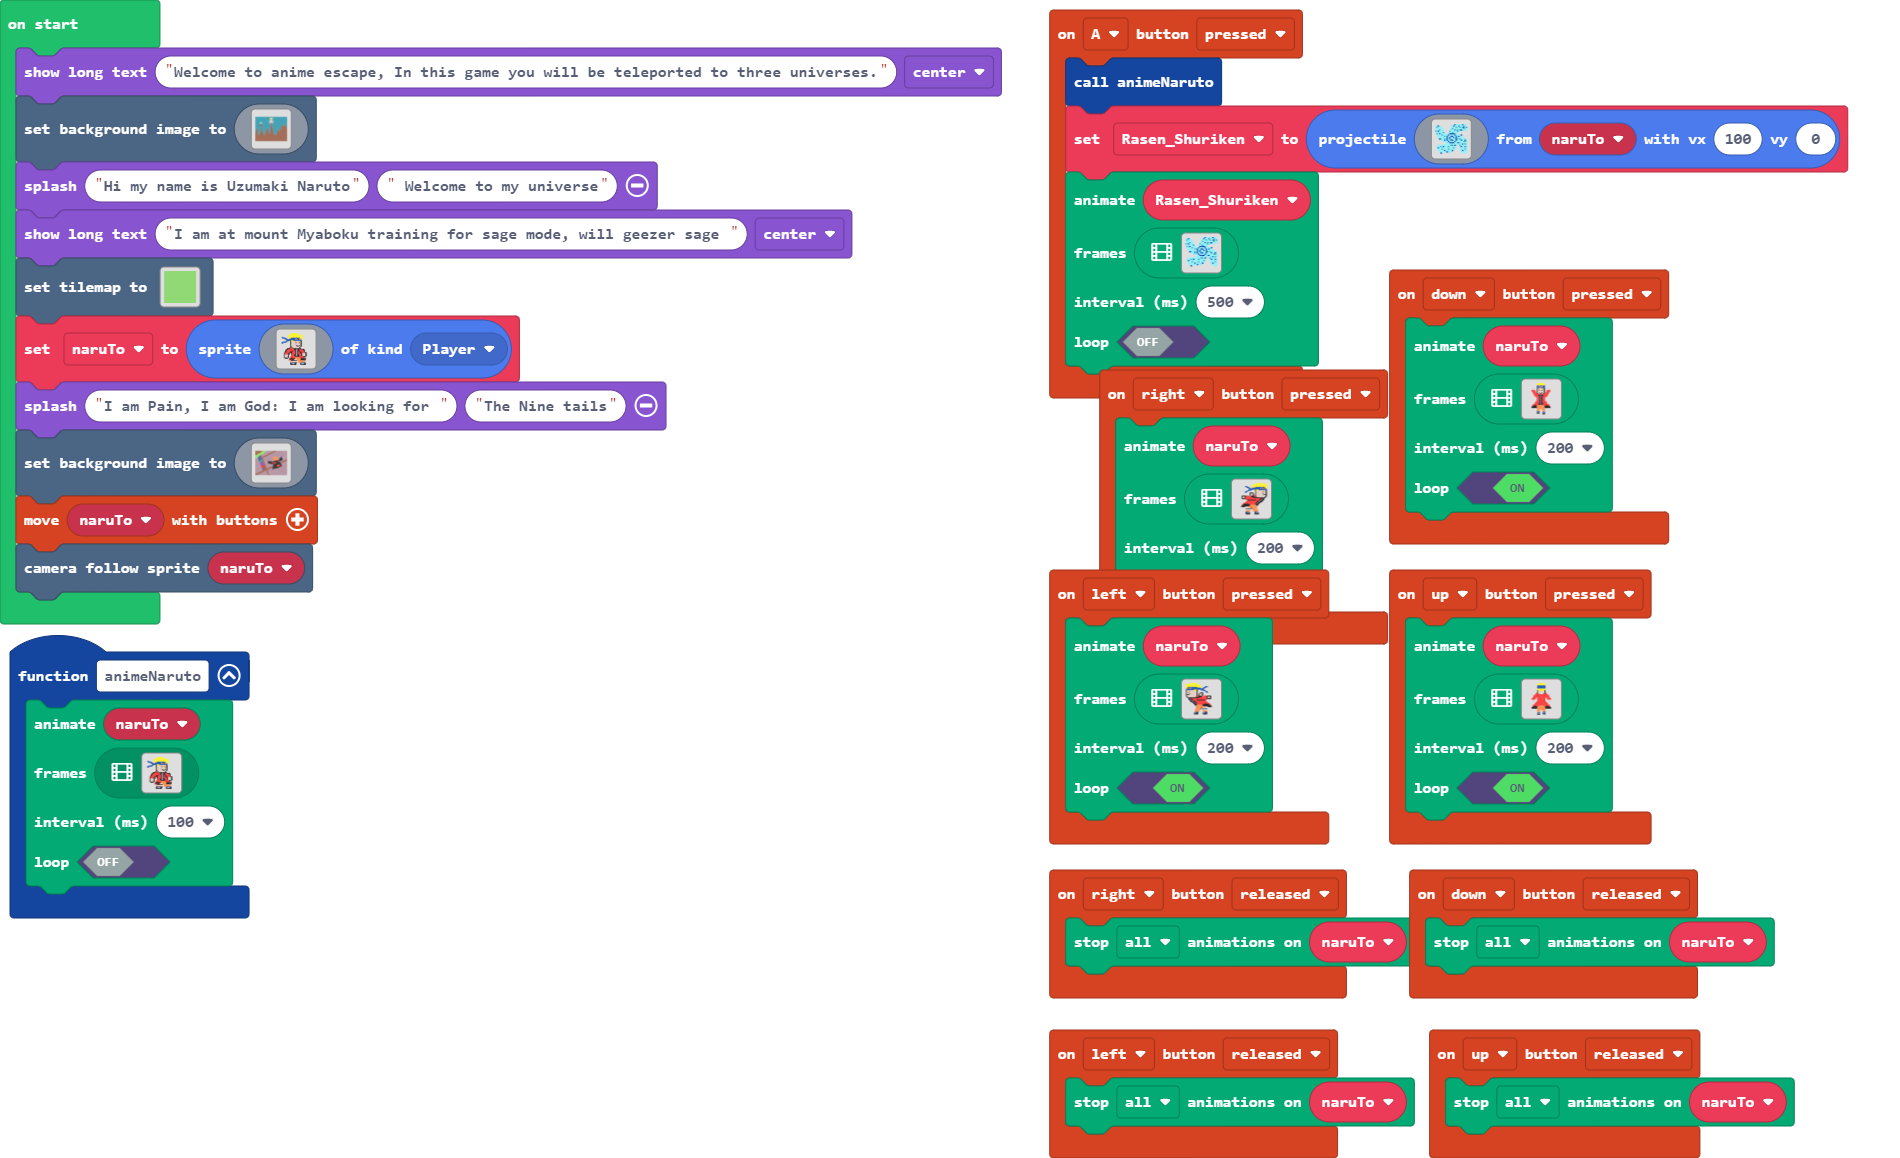
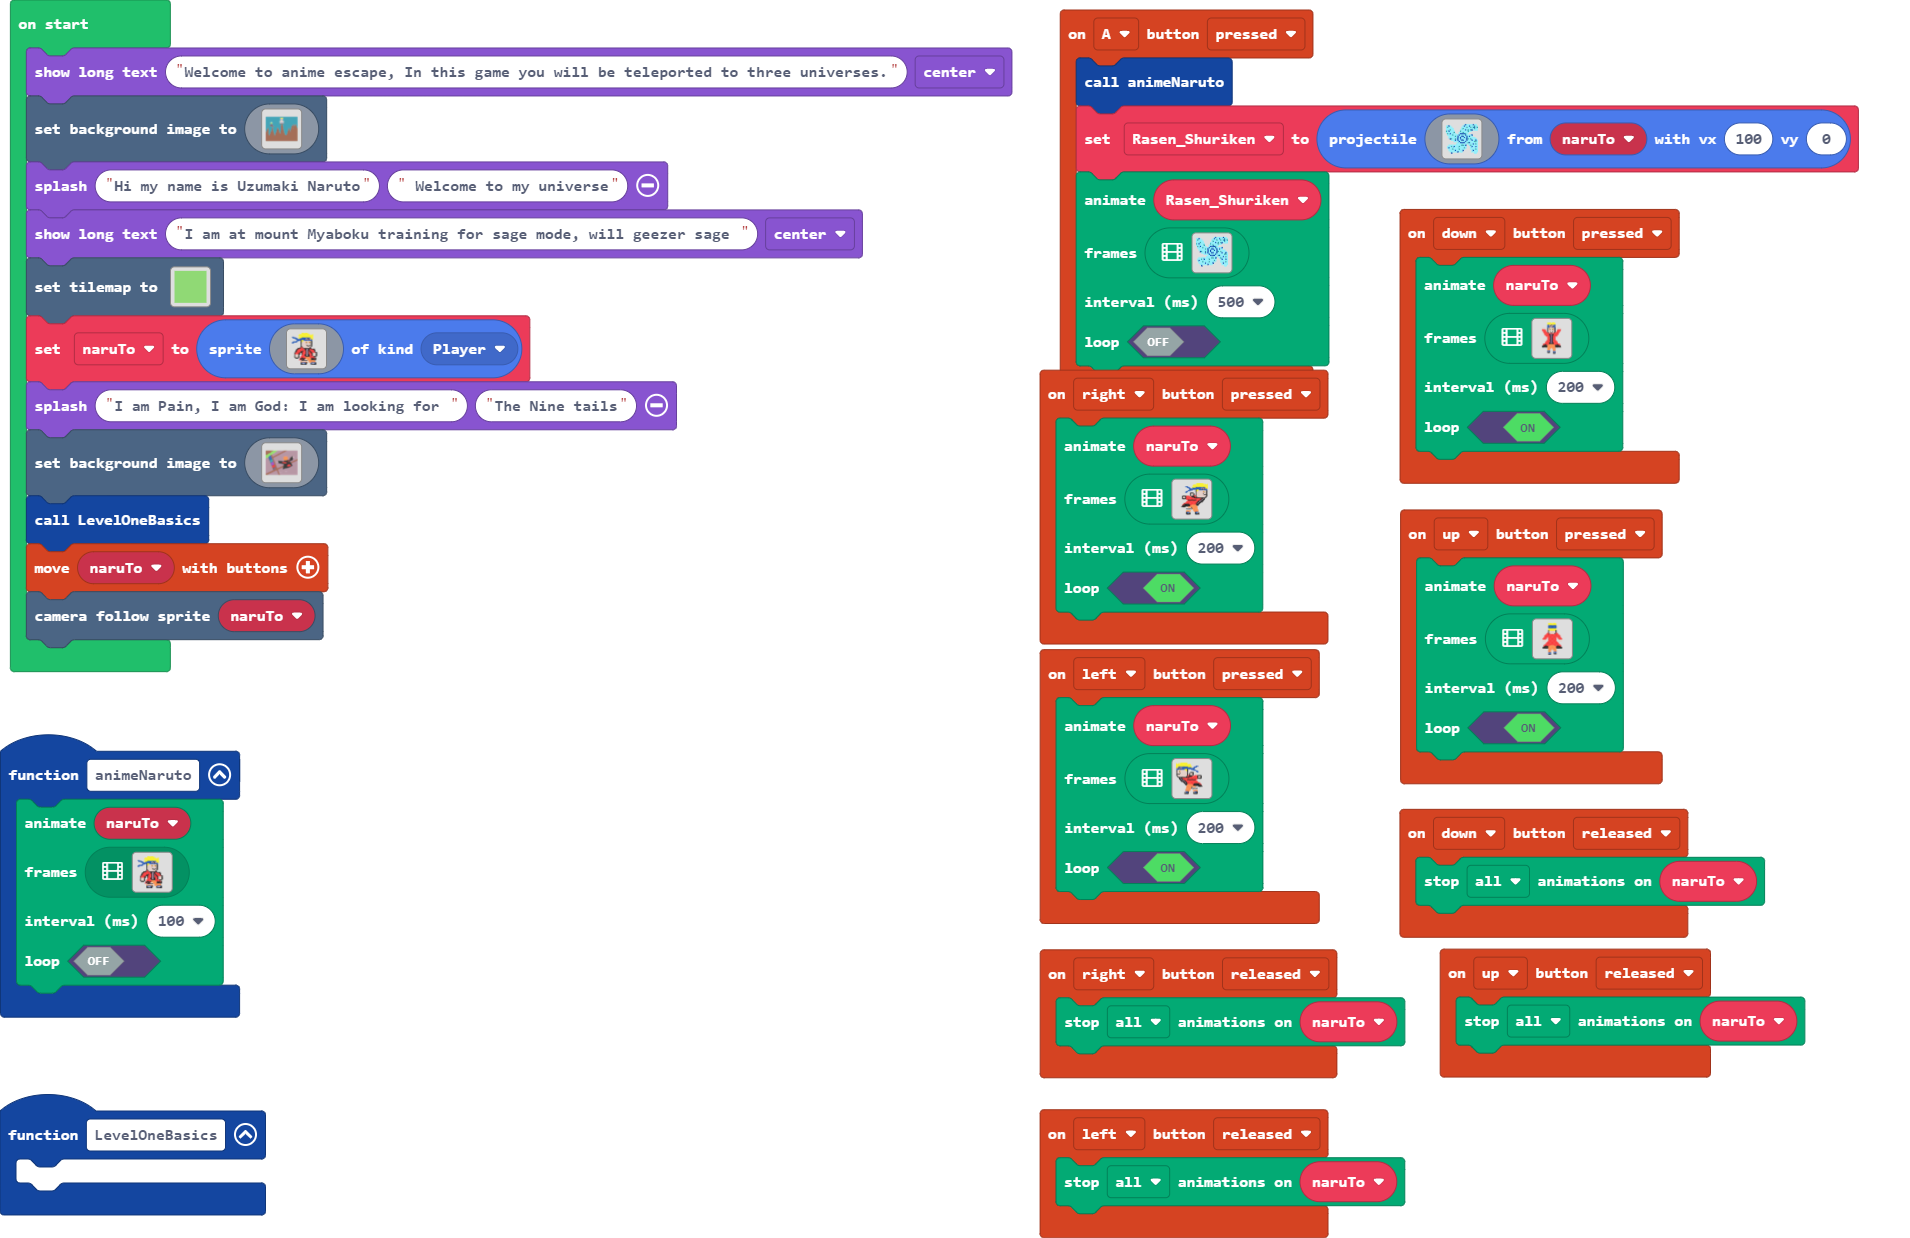
Update main.blocks, main.ts

diff --git a/main.ts b/main.ts
@@ -41,6 +41,9 @@ controller.right.onEvent(ControllerButtonEvent.Pressed, function () {
     true
     )
 })
+function LevelOneBasics () {
+	
+}
 function animeNaruto () {
     animation.runImageAnimation(
     naruTo,
@@ -312,5 +315,6 @@ scene.setBackgroundImage(img`
     eeeeeeeeeeeebbbbbbbbbbbbbbbbbbbbbbbbbbbbbbbbbbbbbbbbbbbbbbbbbbbbeeeeeeebbbbbbbbbbbbbbbbbbbbbbbbbbbbbbbbbbbbbbbbbbbbbbbbbbbbbbbbbbbbbbbbbbbbbbbbbbbbbbbbbbbbbbbbb
     eeeeeeeeeebbbbbbbbbbbbbbbbbbbbbbbbbbbbbbbbbbbbbbbbbbbbbbbbbbbbbbbeeeeeeebbbbbbbbbbbbbbbbbbbbbbbbbbbbbbbbbbbbbbbbbbbbbbbbbbbbbbbbbbbbbbbbbbbbbbbbbbbbbbbbbbbbbbbb
     `)
+LevelOneBasics()
 controller.moveSprite(naruTo)
 scene.cameraFollowSprite(naruTo)
